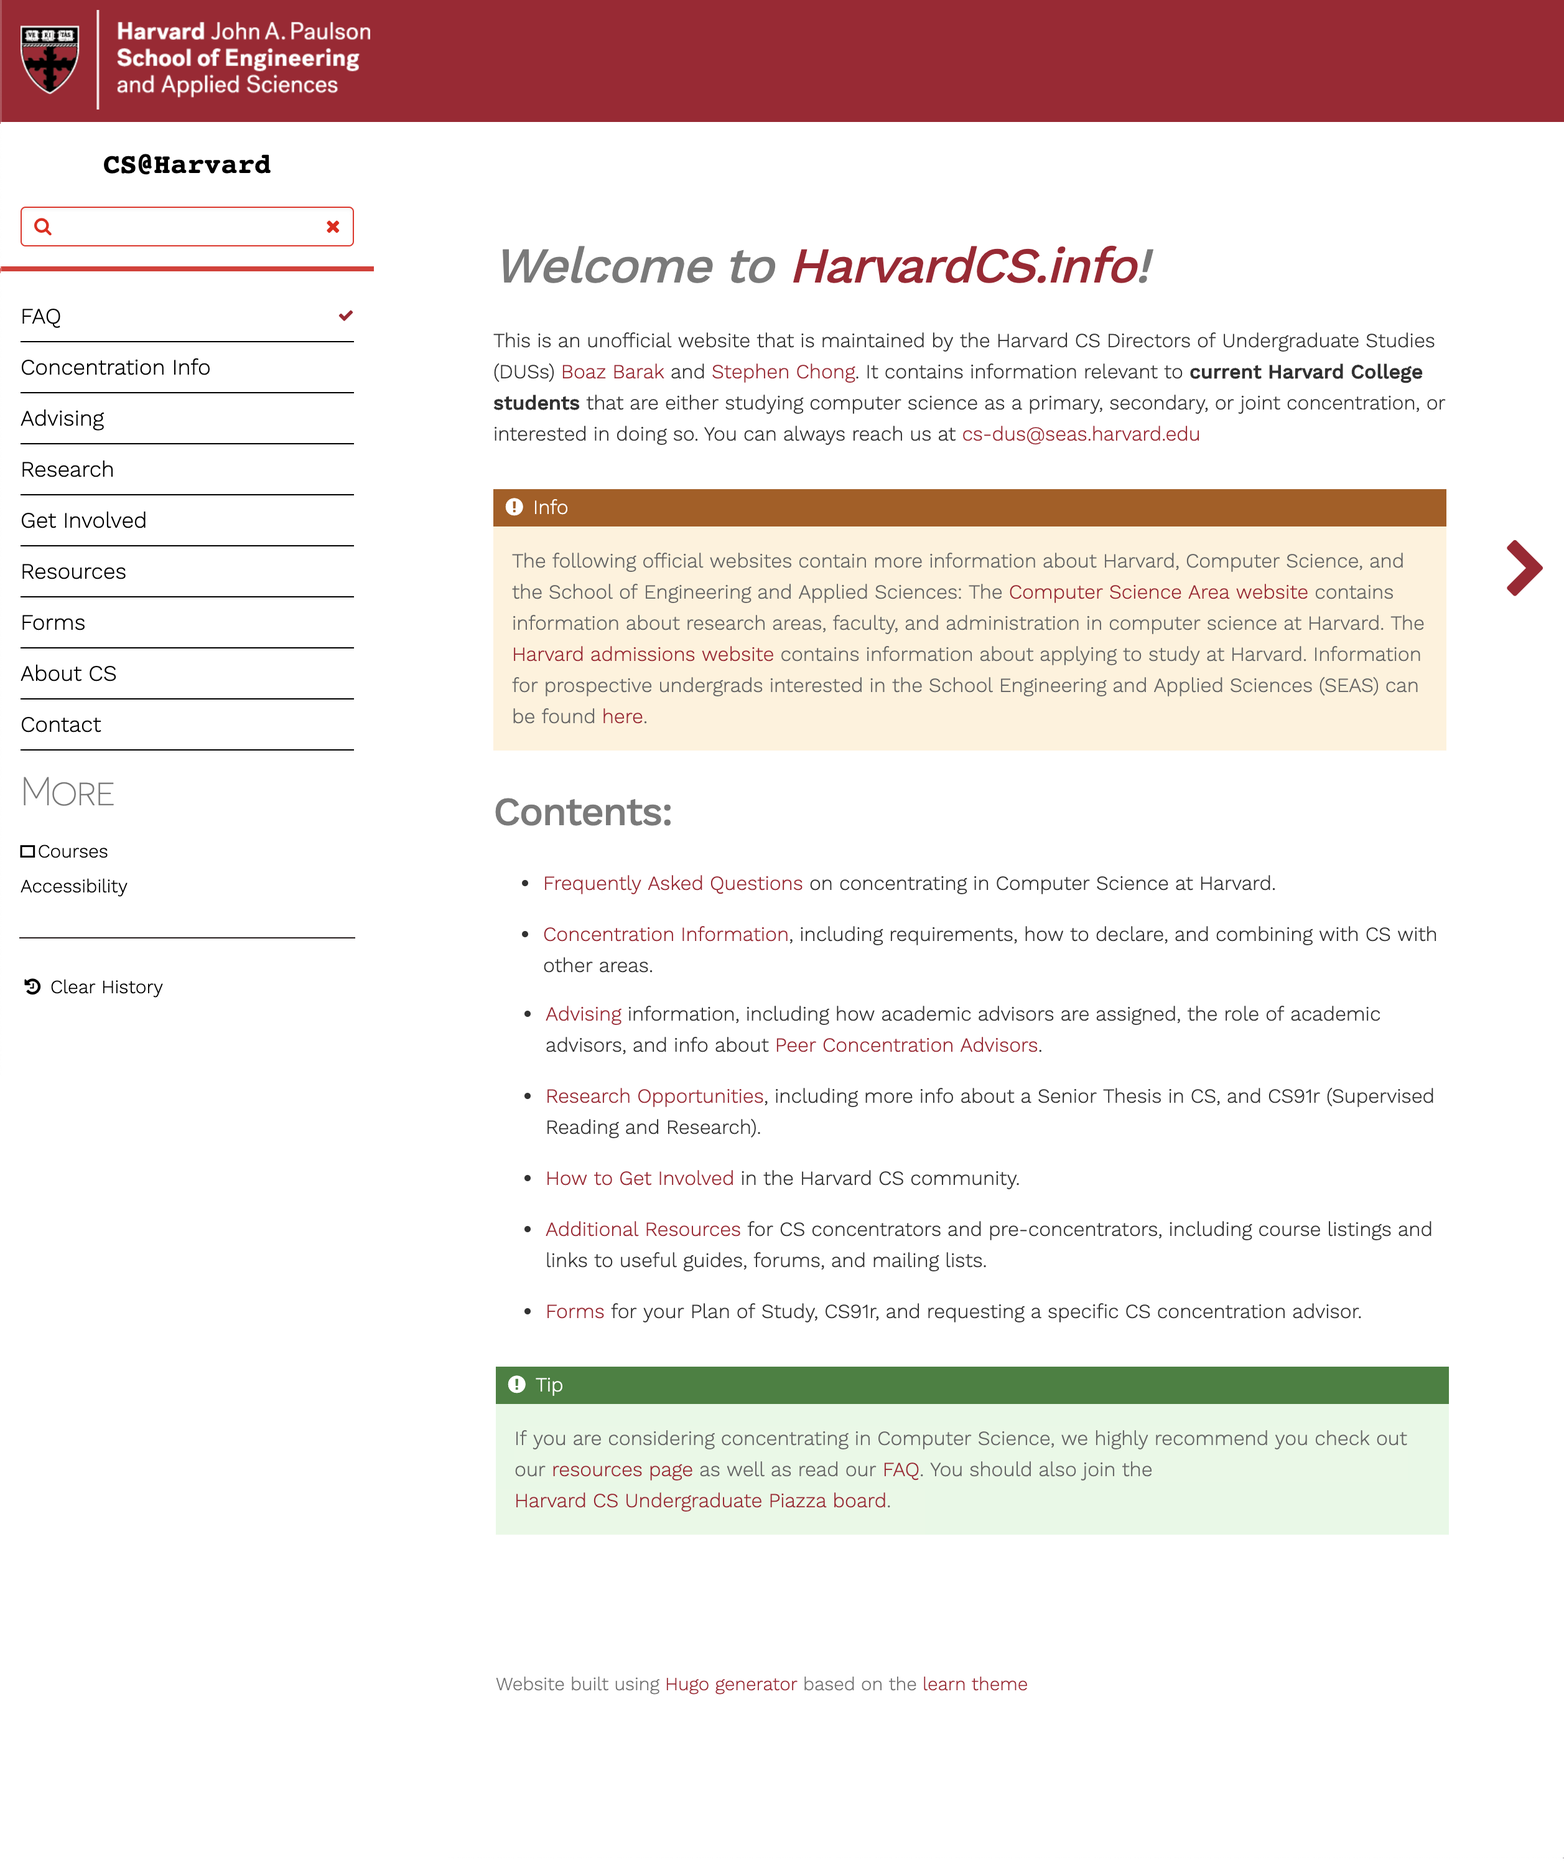
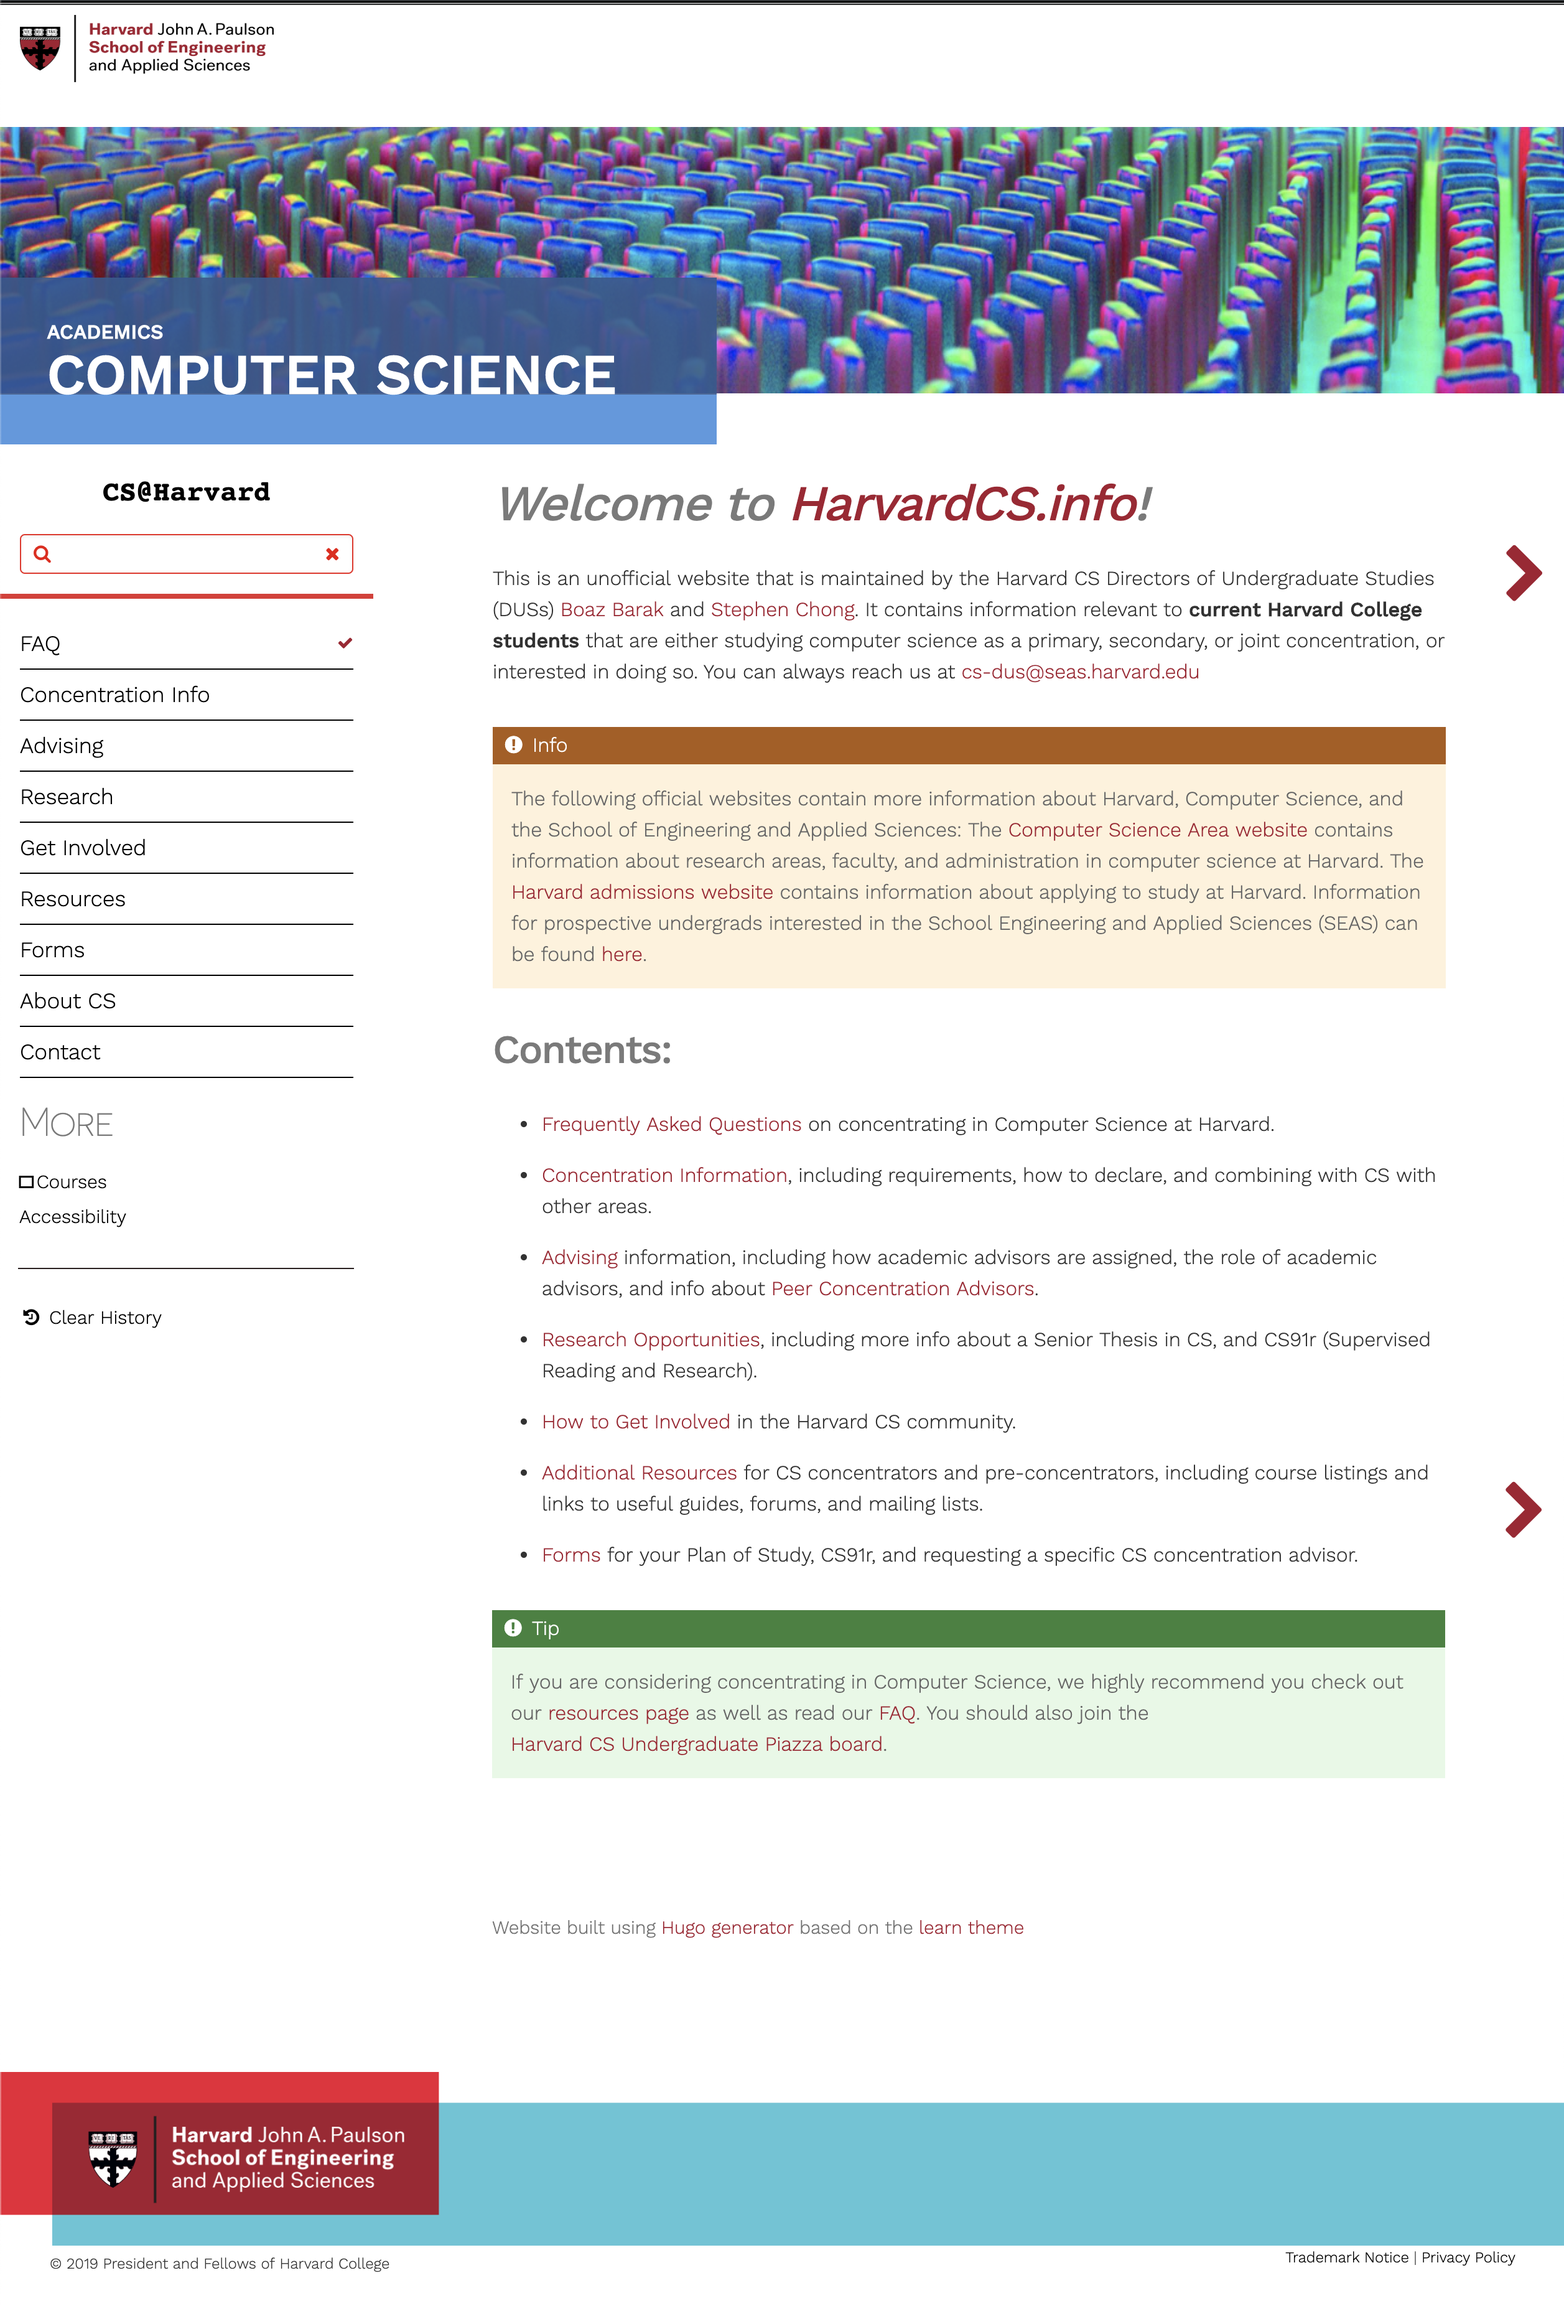
Add files via upload

diff --git a/SEAS-HarvardCS/harvardCS_branding/index.html b/SEAS-HarvardCS/harvardCS_branding/index.html
@@ -1,39 +1,39 @@
-<!-- Current code from https://deploy-preview-29--harvardcs.netlify.com/ -->
+<!-- Proposed code from https://deploy-preview-29--harvardcs.netlify.com/ -->
 <!-- Commit - harvardCS_branding_top -->
 
 
 <div id="page-banner">
     <a href="https://www.seas.harvard.edu">
-        <img src="/images/H_SEAS_logo_RGB_on_black_1.png" alt="Harvard SEAS logo">
+        <img src="https://seas-computing.github.io/course-planner_ux/H_SEAS_logo_RGB.png" alt="Harvard SEAS logo">
     </a>
 </div>
 
 <!-- New div, after above page-banner-->
-
-
-
-
-
-
-
-
-
-
+<div id="page-banner_theme">
+    <div id="page-banner_theme_headings">
+        <div>
+            <a href="https://seasdrupal.prod.acquia-sites.com/academics" id="page-banner_theme_heading1">Academics</a>
+        </div>
+        <div class="page-banner_theme_heading2">
+            <a href="https://seasdrupal.prod.acquia-sites.com/computer-science" id="page-banner_theme_heading2">Computer Science</a>
+        </div>
+    </div>
+</div>
 
 <!-- New div, at the bottom of the page -->
-
-
-
-
-
-
-
+<div style="background-image: url('footer.png'); background-repeat: no-repeat; background-size: 1600px 140px; width: 100%; height: 140px;">
+    
+</div>
+<div style="padding: 0 2.5em 3em 2.5em;/* font-size: .5em; */">
+    <small style="font-size: .75em;/* color: #000; */">© 2019 President and Fellows of Harvard College
+    <span style="float:right;"><a href="//seasdrupal.prod.acquia-sites.com" style="color: #000000;">Trademark Notice</a> | <a href="//seasdrupal.prod.acquia-sites.com" style="color: #000000;">Privacy Policy</a></span></small>
+</div>
 
 <!-- Edited classes -->
 
 #page-banner {
     height: 6.1em;
-    background: #A51C30;
+    background: #ffffff;
     width: 100%;
     position: fixed;
     top: 0;
@@ -41,97 +41,97 @@
 }
 
 #sidebar {
-    background-color: #322A38;
-    position: fixed;
+    
+    
     top: 0;
     width: 300px;
     bottom: 0;
     left: 0;
     font-weight: 400;
     font-size: 15px;
+    margin-top: 3em;
 }
 
+#sidebar #header-wrapper {
+    
+    color: var(--MENU-SEARCH-BOX-color);
+    border-color: var(--MENU-HEADER-BORDER-color);
+}
+
+#sidebar, #body {
+    
+}
+
+#header-wrapper {
+    
+    color: #fff;
+    text-align: center;
+    border-bottom: 4px solid #9c6fb6;
+    padding: 1rem;
+}
 
 #body {
     position: relative;
     margin-left: 300px;
     min-height: 100%;
+    margin-top: -76em;
 }
-
-
-
-
-
-
-
-
-
-
-
-
-
-
-
-
-
-
-
 
 <!-- New classes -->
 
+#page-banner img {
+    width: 220px; 
+    height: 70px;
+}
 
+#page-banner_theme {
+    background-image: url(https://seasdrupal.prod.acquia-sites.com/sites/default/files/styles/banner_large_wide_2x/public/2019-02/academics-hero-small.jpg?itok=p6KyCycw);
+    background-repeat: no-repeat;
+    background-size: 100% 100%;
+    height: 234px;
+    width: 100%;
+    position: fixed;
+    top: 0;
+    z-index: 1;
+    margin-top: 78px;
+    padding-top: 8.8em;
+    }
 
+@media (min-width: 556px){
 
+    #page-banner_theme_heading2 {
+        font-size: 13vmin;
+        }
+    }
 
+#page-banner_theme_headings {
+    width: 760px; 
+    background-color: #335890E6; 
+    border-bottom: solid 2.5em #5798E1; 
+    padding-left: 3vmax; 
+    padding-top: 1.98em;
+}
 
+#page-banner_theme_heading1 {
+    font-size: 1em; 
+    font-weight: 900; 
+    line-height: 1; 
+    text-transform: uppercase; 
+    color: #ffffff;
+}
 
+.page-banner_theme_heading2 {
+    margin-bottom: -.4em; 
+    max-width: 490px; 
+    min-width: 450px;
+}
 
-
-
-
-
-
-
-
-
-
-
-
-
-
-
-
-
-
-
-
-
-
-
-
-
-
-
-
-
-
-
-
-
-
-
-
-
-
-
-
-
-
-
-
-
-
-
-
+#page-banner_theme_heading2 {
+    font-size: 2.8em; 
+    font-weight: 900; 
+    line-height: 1; 
+    text-transform: uppercase; 
+    color: #ffffff;
+}
 
 -
